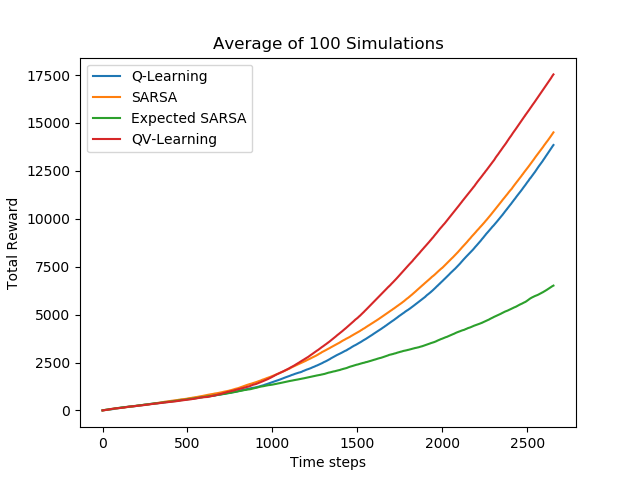
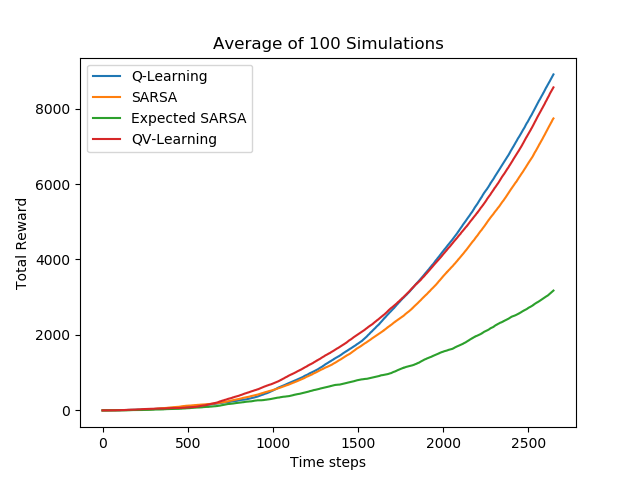
Updated comments and sample output.

diff --git a/LearningAgent.py b/LearningAgent.py
@@ -1,6 +1,6 @@
 # Learning agents utilize some reinforcement learning algorithm to reach the terminal state of the environment.
 # This abstraction helps when changing a value such as epsilon or gamma, because the changes are applied to all
-# learning agents.
+# learning agents. The concrete methods defined here are actions that can be taken by any learning agent.
 
 from abc import ABC
 from Agent import Agent
@@ -9,29 +9,45 @@ import random
 
 
 class LearningAgent(Agent, ABC):
-    # The current value of the Agent's total reward.
+    # The initial reward held by an agent is always zero
+    # since it has not had the chance to traverse an environment.
     reward = 0
 
-    # The alpha variable in the Q-learning equation decreases as the episodes increase. The minimum value is
-    # when alpha stops decreasing. Alpha is the learning rate.
+    # The learning rate (alpha) in the Bellman equation decreases as the episodes increase.
+    # We specify a minimum alpha to ensure alpha does not decrease below this value.
     minimum_alpha = 0.02
 
-    # The discount factor.
-    gamma = 0.9
-
-    # A list of alphas starts from 1.0 and decays based on the number of episodes until minimum_alpha is reached.
+    # A list of learning rates (alphas) starts from 1.0 and decays based
+    # on the number of episodes until minimum_alpha is reached.
     decaying_alphas = np.linspace(1.0, minimum_alpha, Agent.number_of_episodes)
+
+    # The discount factor in the Bellman equation is known as gamma.
+    gamma = 0.9
 
     # Epsilon determines whether or not the action will be random or chosen from experience.
     # This can be any value less than 1. If it is 1, it will always choose a random action.
     epsilon = 0.1
 
     # Q_table is initialized as an empty dictionary.
+    # This table is initialized with values in the q method.
     q_table = {}
 
+    # Probability of randomly turning an action of 1 to an action of 0.
+    random_fail = 0.10
+
+    # Learning agents can write their activities to an output file.
+    @staticmethod
+    def write_to_csv(writer, episode, state, total_reward, time, action, index, agent_type):
+        file = open('output.csv', 'a')
+        writer.writerow(
+            {'Episode': episode, 'State': str(state.state), 'Reward': total_reward, 'Time': time, 'Action': action,
+             'Agent': index, 'Agent Type': agent_type})
+        file.close()
+
     # Initialize q table with values or update them.
-    # If the current state hasn't been experienced yet, add it and create a 0 column for it.
+    # If the current state hasn't been experienced yet, add it and zero the values for it.
     # If the current state has been experienced, return the state and action value.
+    # If the action passed is None, return all of the values corresponding to the state value.
     def q(self, state, action=None):
         if state not in self.q_table:
             self.q_table[state] = np.zeros(len(self.actions))
@@ -39,22 +55,27 @@ class LearningAgent(Agent, ABC):
             return self.q_table[state]
         return self.q_table[state][action]
 
-    # Chooses action based on state.
+    # Chooses an action based on state.
     # If the RNG rolls less than epsilon, randomly choose an action based on available actions.
-    # Otherwise, choose an action based on experience (refer to q_table).
+    # Otherwise, choose an action based on experience.
     def choose_action(self, state):
         if random.uniform(0, 1) < self.epsilon:
-            action = random.choice(self.actions)
-            return action
+            return random.choice(self.actions)
         else:
-            action = np.argmax(self.q(state))
-            return action
+            return np.argmax(self.q(state))
 
-    # Based on current state and action, decide where to go next, if the agent has reached a terminal state,
-    # and what reward is obtained.
+    # Based on current state and action, decide: where to go next,
+    # if the agent has reached a terminal state, and what reward is obtained.
+    # If the action is 1, there is a chance to change that action to 0.
+    # If the action remains 1, move to the next state.
+    # If the action is 0 or has been changed to 0, return to the beginning of the environment.
+    # If the agent has moved to the last state, give it a reward.
     def act(self, state, action, environment):
-        random_surge = random.uniform(0, 1)
-        if state == environment.starting_node and random_surge < self.probability_of_surge:
+        if action == 1:
+            if random.uniform(0, 1) < self.random_fail:
+                action = 0
+                print("Action 1 -> 0.")
+        if state == environment.starting_node and random.uniform(0, 1) < self.probability_of_surge:
             random_advance = random.randint(1, len(environment.nodes) - 2)
             state = environment.nodes[random_advance]
             terminal_state = False

diff --git a/Agent.py b/Agent.py
@@ -1,44 +1,48 @@
-# The Agent class details all attributes and abilities of an agent. These will start simple and become more complex
-# later on. An agent may be instantiated with a probability to surge forward. Otherwise, every agent is created the
-# same. They are created outside of the environment (current_state initial value is None) and they are created without
-# the reward (reward initial value is False). Some agents will traverse an environment based on learning algorithms
-# or random number generators.
+# The Agent class details all attributes and methods of an agent, regardless of whether or not it has the ability to
+# learn. Agents are created outside of the environment and then inserted into the environment specified in traverse().
 
 # Abstract class.
+# Random needed for RNG.
 from abc import ABC, abstractmethod
 import random
 
 
-# Some agents have a probability to surge forward.
-# All have a current state, and a reward field. All agents are
-# also capable of traversal through an environment and are capable
-# of recording their actions in a csv output file.
 class Agent(ABC):
     # Actions list holds all of the possible actions. For an environment of m states, the actions are 0 - m-1.
     actions = []
 
-    # Number of episodes to attempt. This can be any number.
+    # Number of episodes to attempt.
+    # This can be any integer > 0.
     number_of_episodes = 500
 
-    # The number of steps (actions) to take per episode. This can be any number, does not have to equal number
-    # of episodes.
+    # The number of steps (actions) to take per episode.
+    # This can be any integer > 0.
     number_of_steps = 100
 
     # The state where the Agent is currently located.
+    # Initially set to None.
     current_state = None
 
     # The probability of the Agent surging to a higher state from the starting state.
     probability_of_surge = 0.05
 
     # Whether or not the Agent has a reward.
+    # This only applies to Optimal and Random agents.
+    # This is overridden for learning agents in LearningAgent.py.
     reward = False
 
+    # String that holds the reinforcement learning algorithm the agent is utilizing.
     @property
     @abstractmethod
     def agent_type(self):
         pass
 
-    # The agent enters the environment.
+    # The agent enters the environment and attempts to reach the reward.
+    # Optimal and Random agents do not attempt to learn the correct path to the reward.
+    # All Learning agents utilize some reinforcement learning algorithm to learn the correct path to the reward.
+    # The environment that the agent will traverse, the agent number (index), and the csv_writer object created
+    # in main.py are passed so the agent may record its actions in the output.csv.
+    # This method returns the timesteps it took for a traversal, so Plotter.py can graph create an average graph.
     @abstractmethod
     def traverse(self, environment, index, csv_writer):
         pass
@@ -53,15 +57,7 @@ class Agent(ABC):
     def set_current_state(self, current_state):
         self.current_state = current_state
 
-    # Learning agents can write their activities to an output file.
-    @staticmethod
-    def write_to_csv(writer, episode, state, total_reward, time, action, index, agent_type):
-        file = open('output.csv', 'a')
-        writer.writerow(
-            {'Episode': episode, 'State': str(state.state), 'Reward': total_reward, 'Time': time, 'Action': action,
-             'Agent': index, 'Agent Type': agent_type})
-        file.close()
-
+    # If the agent surges, it chooses a random node to jump to.
     @staticmethod
     def surge(environment):
         random_advance = random.randint(1, len(environment.nodes) - 2)

diff --git a/main.py b/main.py
@@ -1,11 +1,14 @@
-# This program creates an environment comprised of nodes and different agents to navigate these environments.
-# The goal of the agent is to learn how to maximize the reward value through reinforcement learning algorithms.
-# The actions of the agents will be saved in a file for analysis.
+# Project Title: Simulations of Reinforcement Learning in an Ecological Task
+# Name: Michael Badri, Brooklyn College Department of Computer and Information Science
+# Supervisor: Dr. Stefano Ghirlanda, Brooklyn College Department of Psychology
 
-# This purpose of this main method is to be as simple as possible. The environment(s) and agent(s)
+# The goal of this project is to simulate the ecological task of behavior chaining using reinforcement learning
+# algorithms
+
+# The purpose of this main method is to be as simple as possible. The environment(s) and agent(s)
 # will be created here and agents can be reused for multiple environments (see Agent.py and Environment.py).
 # This follows standard object oriented programming styles in which the main method tends to be the least busy.
-# This current main method is essentially a test to ensure environments are created properly and agents act as intended.
+# The output.csv file used for analysis and graphing is created with its header information here.
 
 from Environment import Environment
 from RandomAgent import RandomAgent
@@ -15,6 +18,7 @@ from SarsaAgent import SarsaAgent
 from ExpectedSarsaAgent import ExpectedSarsaAgent
 from QVAgent import QVAgent
 import csv
+import time
 from Plotter import Plotter
 
 
@@ -67,9 +71,11 @@ def main():
 
     # For each agent in the list of agents, begin traversal.
     print("\nRunning...")
+    starting_time = int(time.time())
     for agent in agents:
         agent_record[agents.index(agent) + 1] = agent.traverse(environment, agents.index(agent) + 1, writer)
     print("Agents done traversing. Check output.csv for record of simulation.")
+    print("Traversal process took " + str(int(time.time()) - starting_time) + " seconds.")
     file.close()
 
     # If certain conditions are met, produce graphs.

diff --git a/Plotter.py b/Plotter.py
@@ -21,7 +21,7 @@ class Plotter(object):
 
         # The total reward per time-step is read from the output.csv file
         # and appended into lists for each agent type.
-        print("Generating one simulation graph...")
+        print("\nGenerating one simulation graph...")
         total_reward_q = []
         total_reward_sarsa = []
         total_reward_expected_sarsa = []
@@ -84,7 +84,7 @@ class Plotter(object):
 
         # Store the starting time for later calculating compute time.
         starting_time = int(time.time())
-        print("Generating average graph...")
+        print("\nGenerating average graph...")
 
         # Lambda to determine the minimum time-step value from the entire record of
         # simulated agents. This value is saved into a variable for later.
@@ -211,6 +211,6 @@ class Plotter(object):
         mpl.legend()
 
         # Show the graph and print compute time.
-        print("Process took " + str(int(time.time()) - starting_time) + " seconds.")
+        print("Graphing process took " + str(int(time.time()) - starting_time) + " seconds.")
         print("Done generating average graph.")
         mpl.show()

diff --git a/ExpectedSarsaAgent.py b/ExpectedSarsaAgent.py
@@ -1,14 +1,16 @@
-# The ExpectedSarsaAgent relies on  Expected Sarsa to obtain a reward. The agent either randomly explores the environment
-# or chooses the best action from experience. The agent gains experience from randomly exploring, so at first it will
-# wander aimlessly until it randomly comes across the reward.
+# The ExpectedSarsaAgent relies on  Expected Sarsa to obtain a reward.
 
-import numpy as np
+# The ExpectedSarsaAgent is a LearningAgent.
+# The max method from numpy module is needed in the Bellman equation.
 from LearningAgent import LearningAgent
+import numpy as np
 
 
 class ExpectedSarsaAgent(LearningAgent):
+    # Explicitly state the reinforcement learning algorithm for the output.csv file.
     agent_type = "Expected SARSA"
 
+    # Constructor is needed for initializing more than one agent.
     def __init__(self):
         self.actions = []
         self.q_table = {}

diff --git a/QAgent.py b/QAgent.py
@@ -1,14 +1,16 @@
-# The QAgent relies on Q-learning to obtain a reward. The agent either randomly explores the environment or
-# chooses the best action from experience. The agent gains experience from randomly exploring, so at first it will
-# wander aimlessly until it randomly comes across the reward.
+# The QAgent relies on Q-learning to obtain a reward.
 
-import numpy as np
+# The QAgent is a LearningAgent.
+# The max method from numpy module is needed in the Bellman equation.
 from LearningAgent import LearningAgent
+import numpy as np
 
 
 class QAgent(LearningAgent):
+    # Explicitly state the reinforcement learning algorithm for the output.csv file.
     agent_type = "Q-learning"
 
+    # Constructor is needed for initializing more than one agent.
     def __init__(self):
         self.actions = []
         self.q_table = {}

diff --git a/Node.py b/Node.py
@@ -1,4 +1,4 @@
-# The Node class describes singly-linked nodes that are the building blocks of an environment. Nodes are simple,
+# The Node class describes singly-linked nodes that are the building blocks of an environment. Nodes are simple:
 # they point to the node in front of them, hold a number representing their state, and a boolean that
 # indicates whether or not the node has a reward. Some nodes have reward values and others do not.
 # A basic node is only given a state through the constructor. The next, and reward fields are determined
@@ -15,7 +15,7 @@ class Node(object):
     def __init__(self, state):
         self.state = state
 
-    # Set methods for nodes.
+    # Set next node in sequence.
     def set_next(self, next):
         self.next = next
 

diff --git a/QVAgent.py b/QVAgent.py
@@ -1,13 +1,14 @@
-# The QVAgent relies on QV-learning to obtain a reward. The agent either randomly explores the environment or
-# chooses the best action from experience. The agent gains experience from randomly exploring, so at first it will
-# wander aimlessly until it randomly comes across the reward.
+# The QVAgent relies on QV-learning to obtain a reward.
 
+# The QVAgent is a LearningAgent.
 from LearningAgent import LearningAgent
 
 
 class QVAgent(LearningAgent):
+    # Explicitly state the reinforcement learning algorithm for the output.csv file.
     agent_type = "QV-learning"
 
+    # Constructor is needed for initializing more than one agent.
     def __init__(self):
         self.actions = []
         self.q_table = {}

diff --git a/SarsaAgent.py b/SarsaAgent.py
@@ -1,13 +1,14 @@
-# The SarsaAgent relies on Sarsa to obtain a reward. The agent either randomly explores the environment or
-# chooses the best action from experience. The agent gains experience from randomly exploring, so at first it will
-# wander aimlessly until it randomly comes across the reward.
+# The SarsaAgent relies on Sarsa to obtain a reward.
 
+# The SarsaAgent is a LearningAgent.
 from LearningAgent import LearningAgent
 
 
 class SarsaAgent(LearningAgent):
+    # Explicitly state the reinforcement learning algorithm for the output.csv file.
     agent_type = "SARSA"
 
+    # Constructor is needed for initializing more than one agent.
     def __init__(self):
         self.actions = []
         self.q_table = {}

diff --git a/Environment.py b/Environment.py
@@ -1,7 +1,6 @@
-# The environment class creates an environment of Nodes (see Node.py). Each node is "told" the node in front
-# of it (unless it is the final node). Nodes are dynamically created based on the constructor
-# argument. These nodes are held in a list of nodes. The environment is capable of tracking the performance
-# of the agent.
+# The environment class creates an environment of Nodes (see Node.py) based on Markov Decision Processes or finite
+# automata. Nodes are dynamically created based on the constructor argument. These nodes are held in a list of nodes.
+
 
 from Node import Node
 
